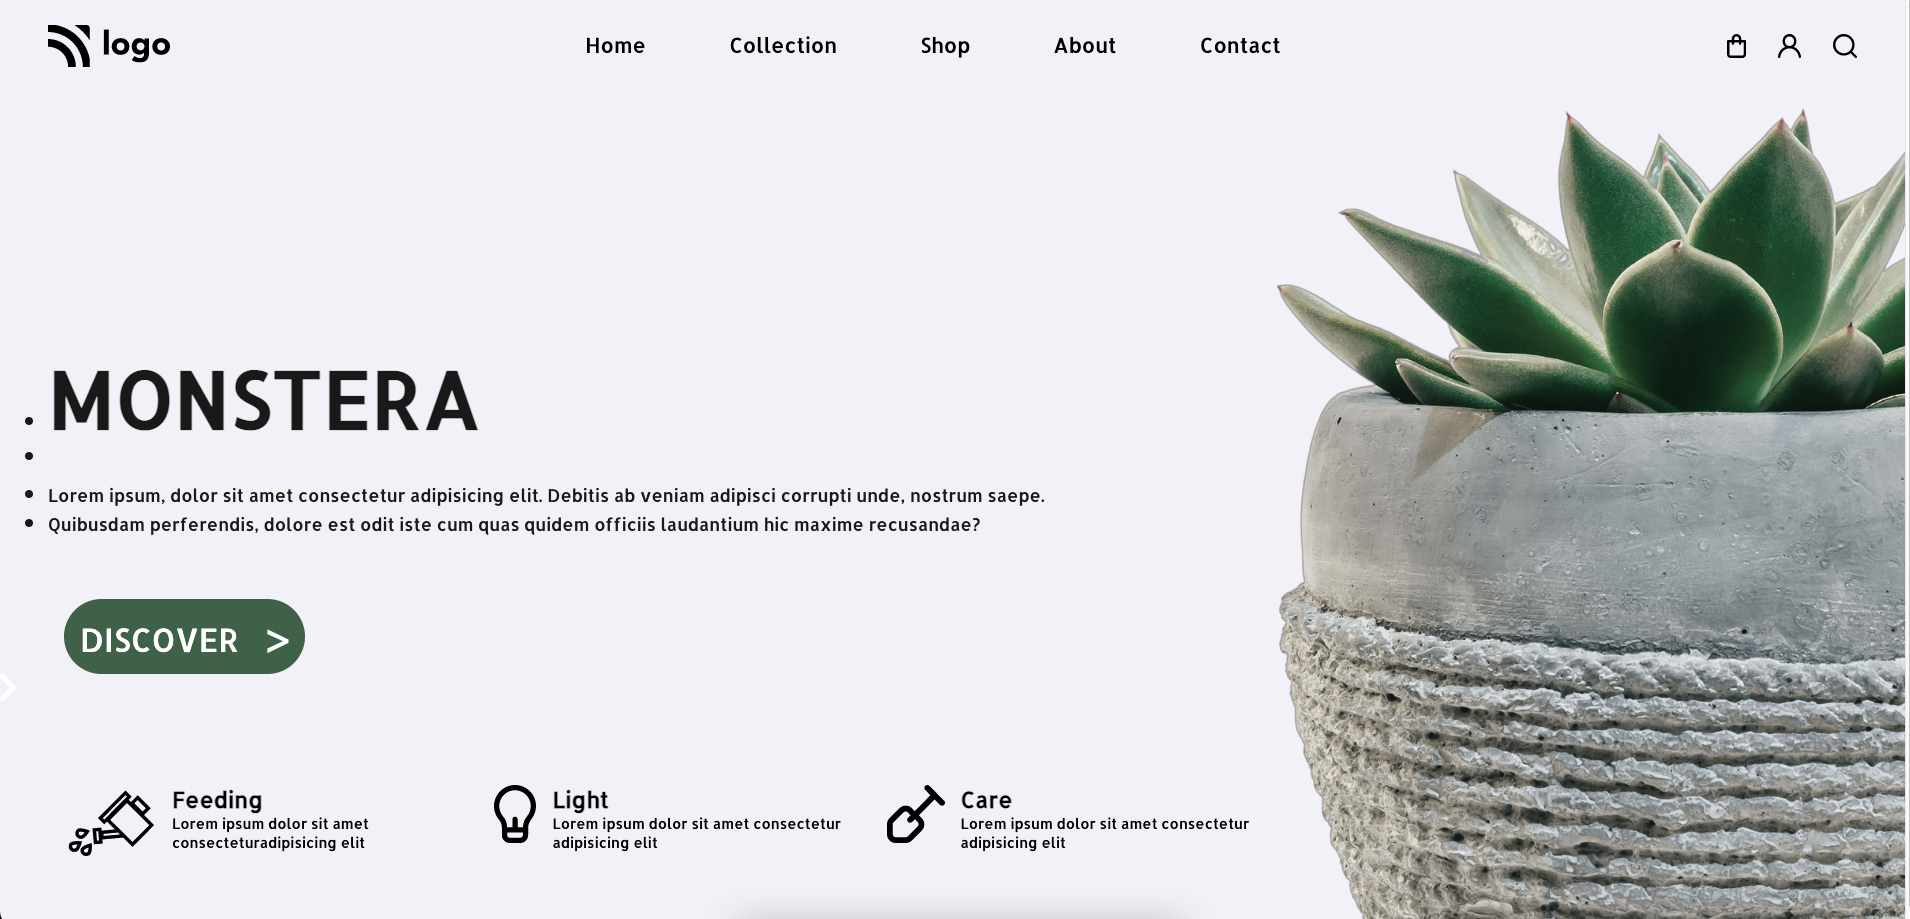
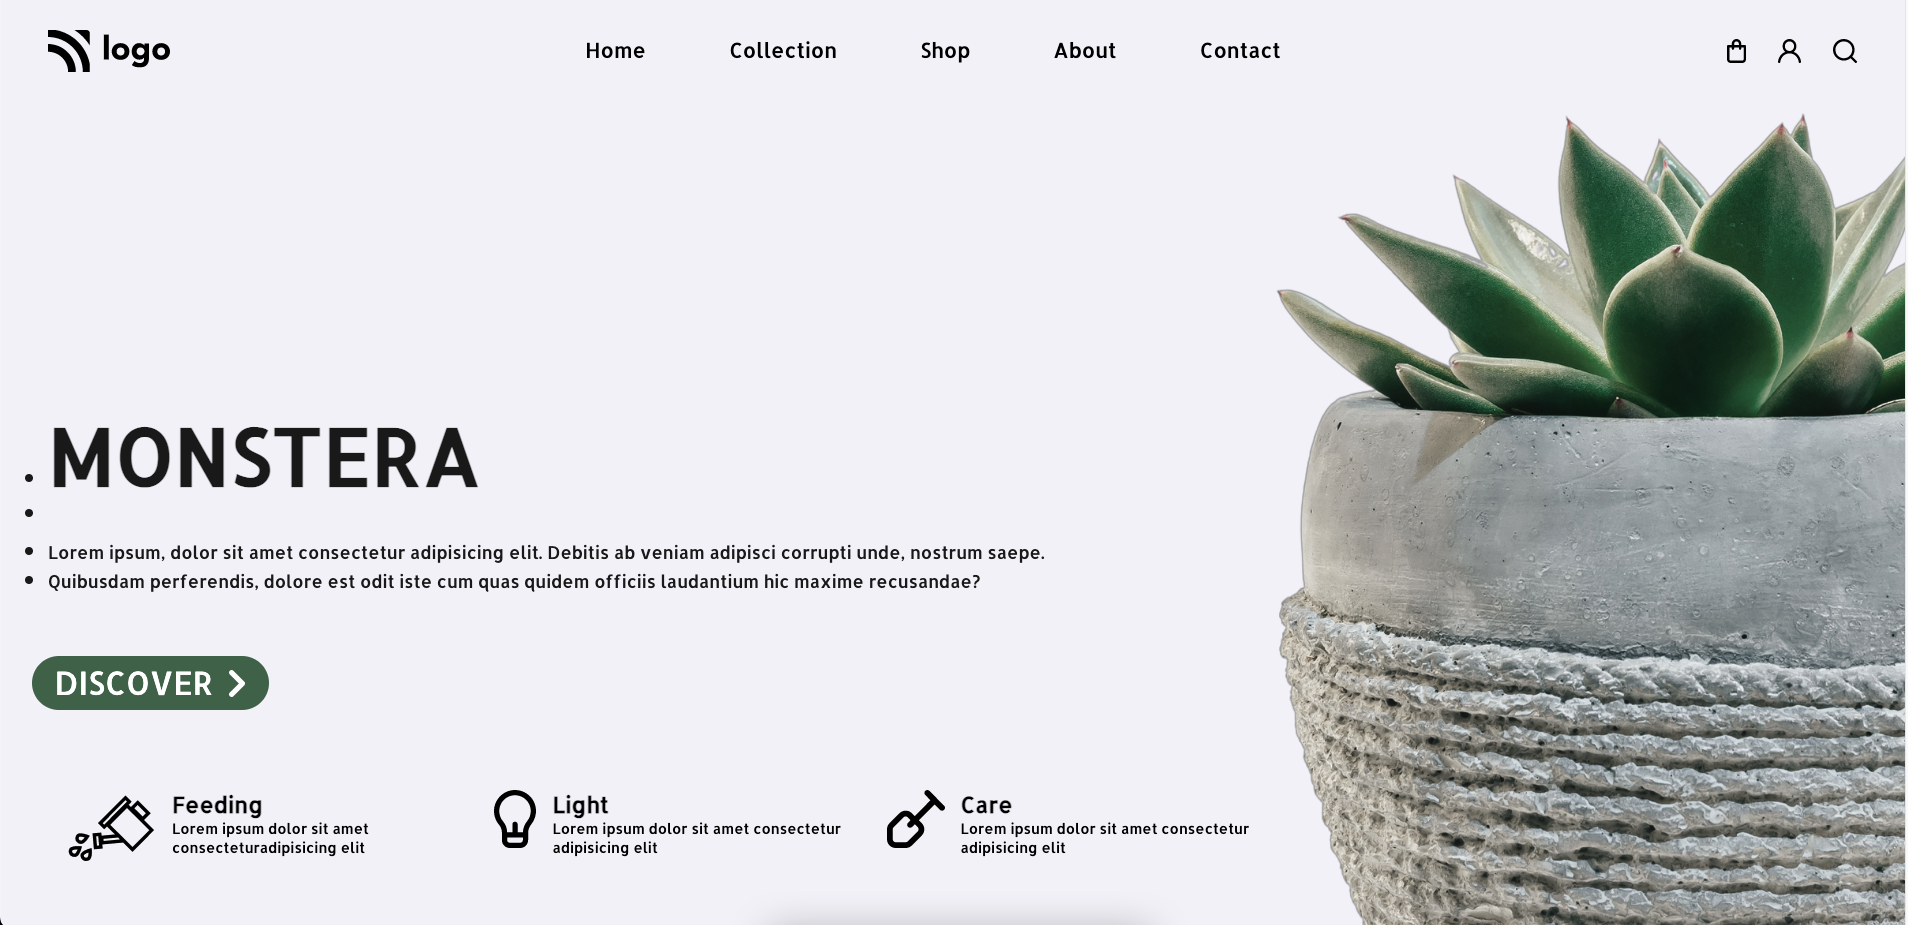
update CSS.md

diff --git a/index.html b/index.html
@@ -88,21 +88,23 @@
       }
       
       #midWholePart121 h1{
-        width: fit-content;
-        background-color: #466c50;
         color: white;
         font-weight: 100;
+        padding-right: 0.5em;
+      }
+      #midWholePart121{
+        display: flex;
+        background-color: #466c50;
         border-radius: 2em;
-        padding: 0.4em 0.5em;
+        padding: 0.4em 1.4em;
         margin-left: 2em;
+        width: fit-content;
+        align-items: center;
       }
-      #midWholePart121 h1::after{
-        content: ' >';
-        padding-left: 0.4em;
-        font-weight: bold;
-        font-size: 1.2em;
+      #midWholePart121 img{
+        position: relative;
+        top: 3px;
       }
-      
       #midWholePart13{
         display: flex;
         margin: 5em 0em 4em 3em ;
